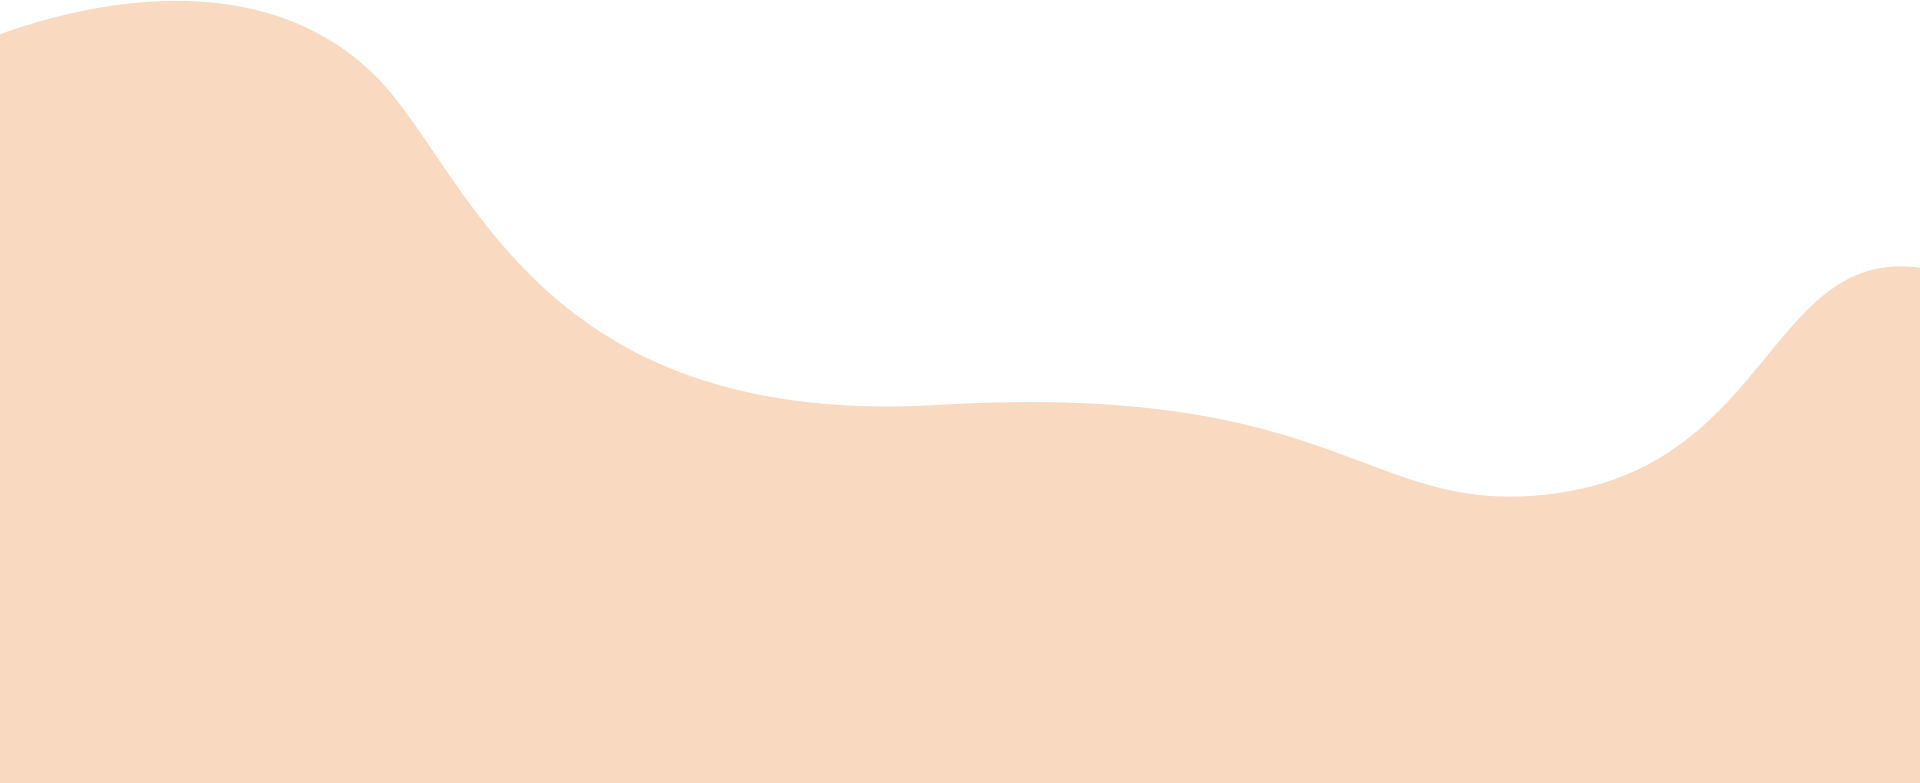
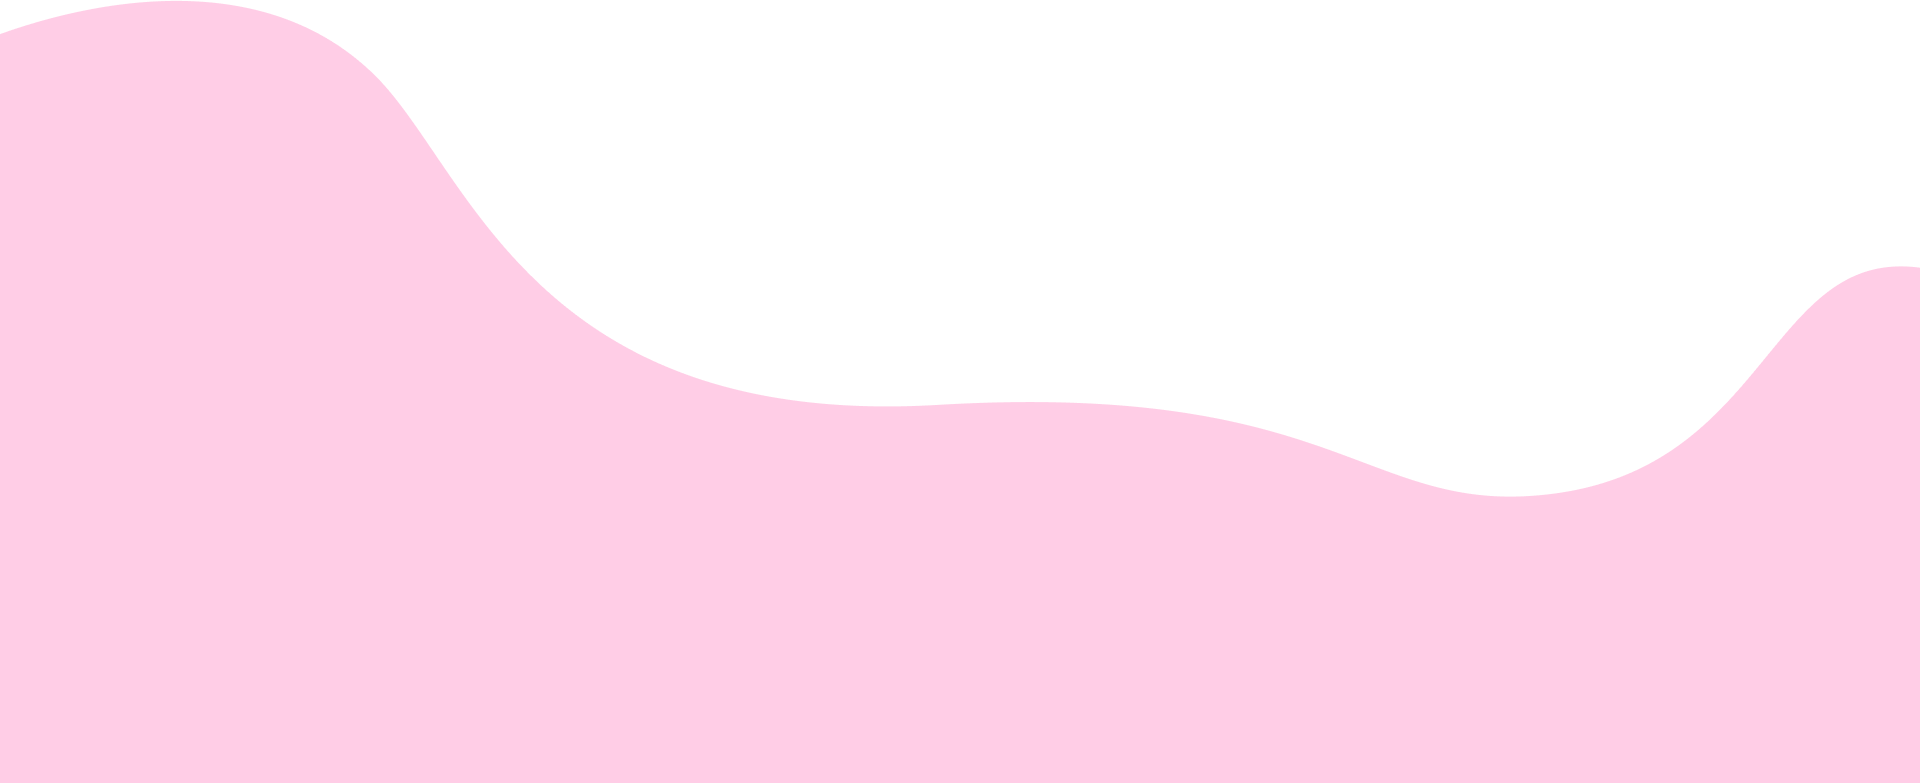
changed color/

diff --git a/index.html b/index.html
@@ -14,7 +14,7 @@
   <div class="mobile-menu">
     <div class="mobile-menu-content">
       <div class="mibile-content-item">
-        <a class='subscribe-btn' href="">Subscribe</a>
+        <a class='subscribe-btn' href="#subscribe">Subscribe</a>
         <img class='close' src="./img/icons/close.svg" alt="">
       </div>
       <nav>
@@ -45,7 +45,7 @@
         <div class='passport-title-content'>
           <h1>YOUR FIRST DIGITAL<br>HEALTH PASSPORT</h1>
           <p class='content-item'>Take photos of your food to get the total amount of calories it contains, fill in your activity records to see the calories remain to burn, submit your medical records and share your doctor through our user-friendly UI. </p>
-          <div class="passport-title-btn">Learn more</div>
+          <a class='passport-title-btn' href="#subscribe">Learn more</a>
         </div>
         <img class='passport-img' src="./img/passport-img.svg" alt="">
       </div>
@@ -84,7 +84,7 @@
     </section>
     <section class='bioMarker-section'>
       <img class='faq' src="./img/faq.svg" alt="">
-      <img class='background-line' src="./img/background-line.png" alt="">
+      <img class='background-line' src="./img/background-line-1.png" alt="">
       <div class="container flex-column">
         <h2>Why are we called MyBioMarker?</h2>
         <div class='bioMarker-box'>
@@ -241,7 +241,7 @@
       </section>
       <!--div class="container-100 justify-center">
     </div-->
-    <img class='background-line-b' src="./img/background-line-b.png" alt="">
+    <img class='background-line-b' src="./img/background-line-b-1.png" alt="">
   </main>
   <footer>
     <a href="#top"><img src="./img/icons/top.svg" alt=""></a>

diff --git a/css/master.css b/css/master.css
@@ -325,6 +325,7 @@ footer {
   background-repeat: no-repeat;
   background-position: center;
   background-size: cover;
+  background-color: #ffcee7;
   height: 70vh;
   max-height: 739px;
 }
@@ -382,6 +383,7 @@ footer {
   color: #fff;
   padding: 10px 55px;
   border-radius: 25px;
+  text-decoration: none;
 }
 .brown-btn {
   border: 1px solid #413734;
@@ -471,7 +473,7 @@ footer .soc-icons {
 .bioMarker-section {
   position: relative;
   margin-top: 200px;
-  background: #F9D9BF;
+  background: #e1b1ba;
   background-image: url(.././img/background-item.svg);
   background-repeat: no-repeat;
   background-size: cover;
